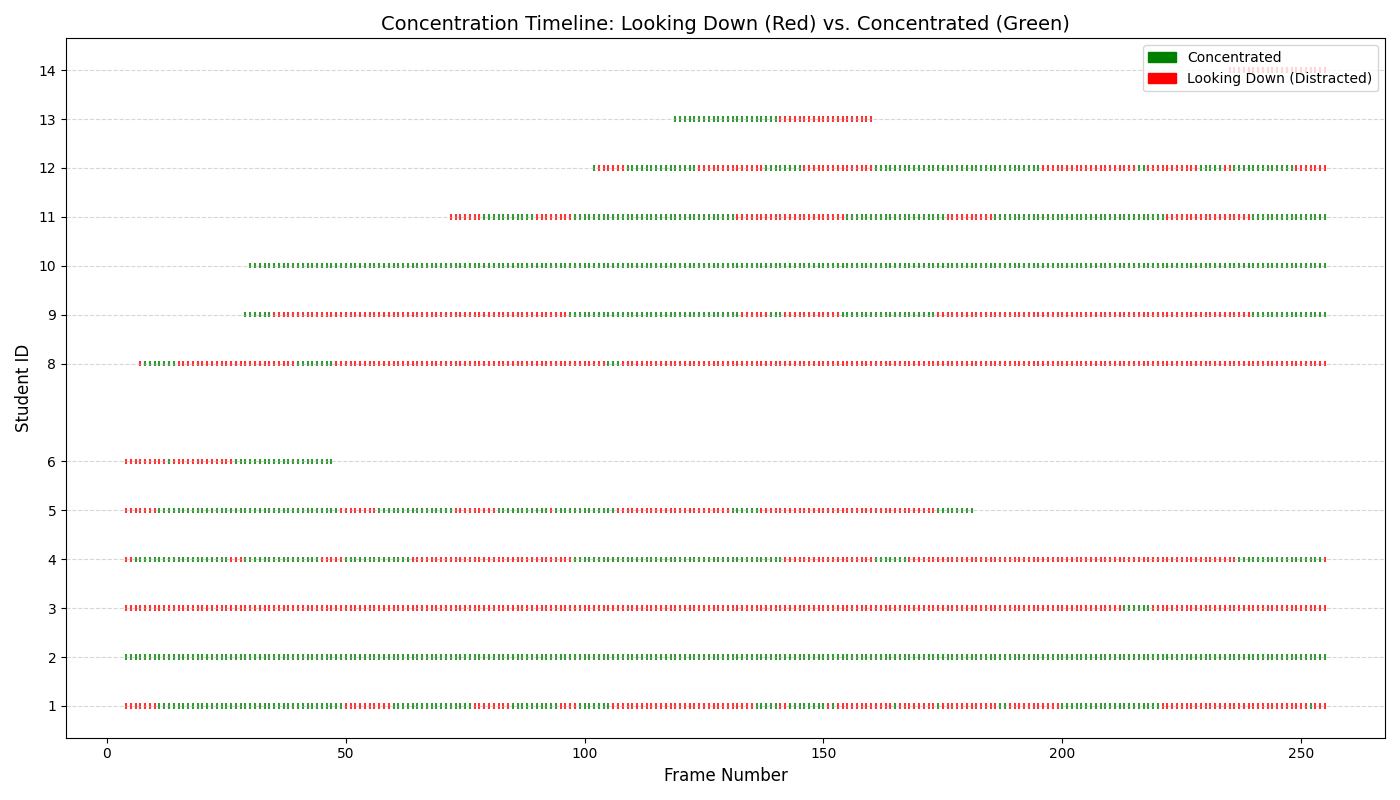
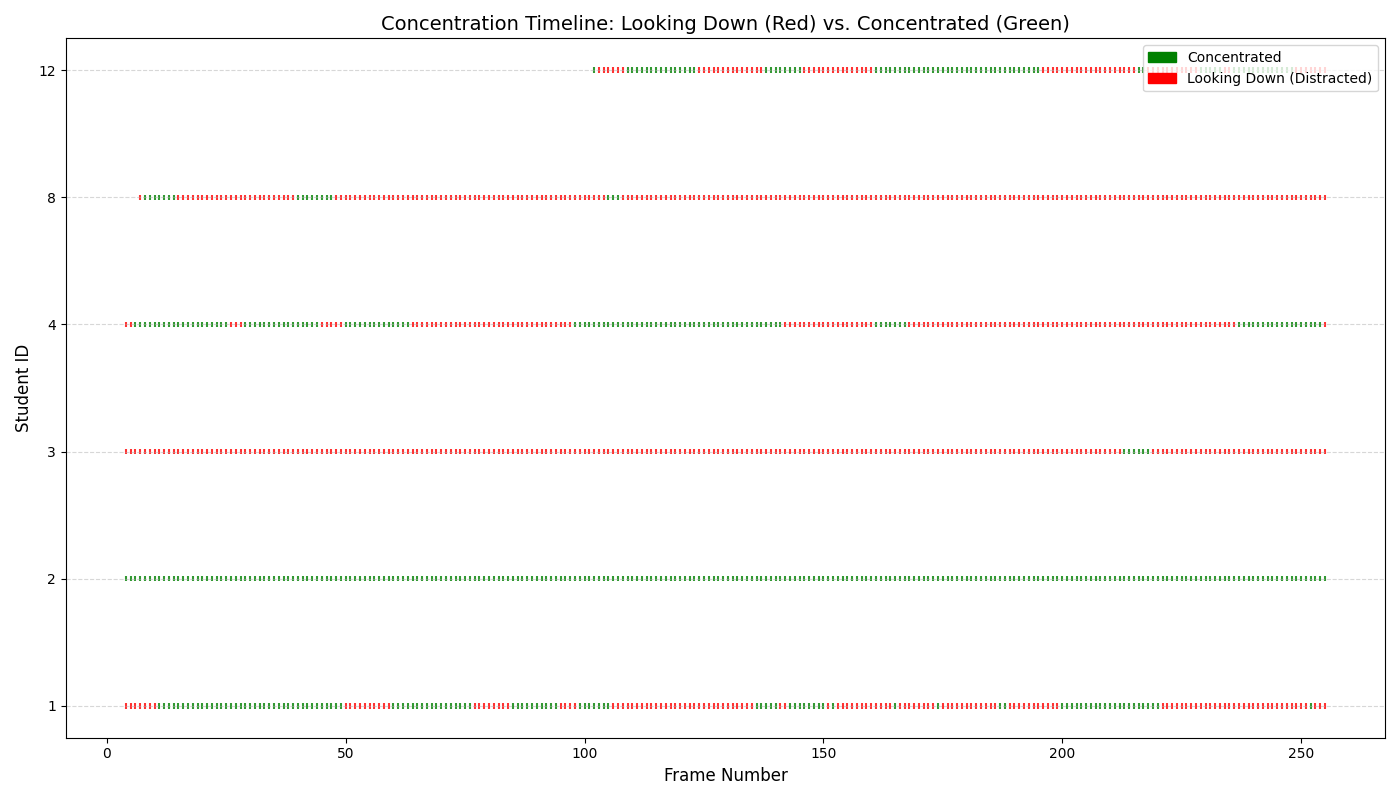
concentration_bar_chart.pyの実装

diff --git a/concentration_bar_chart.py b/concentration_bar_chart.py
@@ -1,0 +1,88 @@
+import pandas as pd
+import numpy as np
+import matplotlib.pyplot as plt
+
+# Load data
+df = pd.read_csv("pose_output_selected.csv")
+
+# Filter valid tracking IDs
+df = df.dropna(subset=["tracking_id"])
+df["tracking_id"] = df["tracking_id"].astype(int)
+
+# Remove rows where nose_y is 0 or NaN
+df = df[(df["nose_y"].notna()) & (df["nose_y"] != 0)]
+
+# Convert look_down to boolean
+def to_bool(x):
+    if isinstance(x, str):
+        return x.lower() == "true"
+    return bool(x)
+
+df["look_down"] = df["look_down"].apply(to_bool)
+
+# Calculate Statistics
+stats = []
+ids = sorted(df["tracking_id"].unique())
+
+for tid in ids:
+    id_data = df[df["tracking_id"] == tid]
+    total_frames = len(id_data)
+    look_down_frames = id_data["look_down"].sum()
+
+    # Concentration: Percentage of time NOT looking down
+    concentration_rate = (
+        100 * (1 - (look_down_frames / total_frames)) if total_frames > 0 else 0
+    )
+
+    stats.append(
+        {
+            "Tracking ID": tid,
+            "Total Frames": total_frames,
+            "Look Down Frames": look_down_frames,
+            "Concentration Rate (%)": concentration_rate,
+        }
+    )
+
+stats_df = pd.DataFrame(stats)
+print("\nConcentration Statistics:")
+print(stats_df)
+
+# Create bar chart
+plt.figure(figsize=(10, 6))
+
+# Extract data for plotting
+student_ids = stats_df["Tracking ID"]
+concentration_rates = stats_df["Concentration Rate (%)"]
+
+# Create x-axis positions (0, 1, 2, ...) for compacted display
+x_positions = range(len(student_ids))
+
+# Create bar chart with color gradient based on concentration
+colors = plt.cm.RdYlGn(concentration_rates / 100)
+
+bars = plt.bar(x_positions, concentration_rates, color=colors, edgecolor="black", linewidth=1.2)
+
+# Add value labels on top of bars
+for bar, rate in zip(bars, concentration_rates):
+    height = bar.get_height()
+    plt.text(
+        bar.get_x() + bar.get_width() / 2.0,
+        height,
+        f"{rate:.1f}%",
+        ha="center",
+        va="bottom",
+        fontsize=10,
+        fontweight="bold",
+    )
+
+plt.xlabel("Student ID", fontsize=12, fontweight="bold")
+plt.ylabel("Concentration Rate (%)", fontsize=12, fontweight="bold")
+plt.title("Student Concentration Rates", fontsize=14, fontweight="bold")
+plt.ylim(0, 105)
+# Set x-ticks to show actual student IDs at compacted positions
+plt.xticks(x_positions, student_ids)
+plt.grid(True, axis="y", linestyle="--", alpha=0.3)
+
+plt.tight_layout()
+plt.savefig("concentration_bar_chart.png", dpi=300)
+print("\n棒グラフを保存しました: concentration_bar_chart.png")

diff --git a/concentration_analysis.py b/concentration_analysis.py
@@ -4,7 +4,7 @@ import matplotlib.pyplot as plt
 import matplotlib.patches as mpatches
 
 # Load data
-df = pd.read_csv("pose_output.csv")
+df = pd.read_csv("pose_output_selected.csv")
 
 # Filter valid tracking IDs
 df = df.dropna(subset=["tracking_id"])
@@ -70,8 +70,11 @@ color_map = {True: "red", False: "green"}
 
 # Plot each ID's timeline
 # We will plot a point for every frame
-# Y-axis: Tracking ID
+# Y-axis: Tracking ID (compacted to sequential positions)
 # X-axis: Frame Number
+
+# Create a mapping from tracking ID to y-position (0, 1, 2, ...)
+id_to_position = {tid: idx for idx, tid in enumerate(ids)}
 
 for tid in ids:
     id_data = df[df["tracking_id"] == tid].sort_values("frame")
@@ -80,8 +83,10 @@ for tid in ids:
     # But scatter is easiest for variable data
     colors = id_data["look_down"].map(color_map)
 
+    # Use the compacted position instead of the actual tracking ID
+    y_position = id_to_position[tid]
     plt.scatter(
-        id_data["frame"], [tid] * len(id_data), c=colors, s=15, marker="|", alpha=0.8
+        id_data["frame"], [y_position] * len(id_data), c=colors, s=15, marker="|", alpha=0.8
     )
 
 plt.xlabel("Frame Number", fontsize=12)
@@ -89,7 +94,8 @@ plt.ylabel("Student ID", fontsize=12)
 plt.title(
     "Concentration Timeline: Looking Down (Red) vs. Concentrated (Green)", fontsize=14
 )
-plt.yticks(ids)
+# Set y-ticks to show actual tracking IDs at compacted positions
+plt.yticks(range(len(ids)), ids)
 plt.grid(True, axis="y", linestyle="--", alpha=0.5)
 
 # Legend
